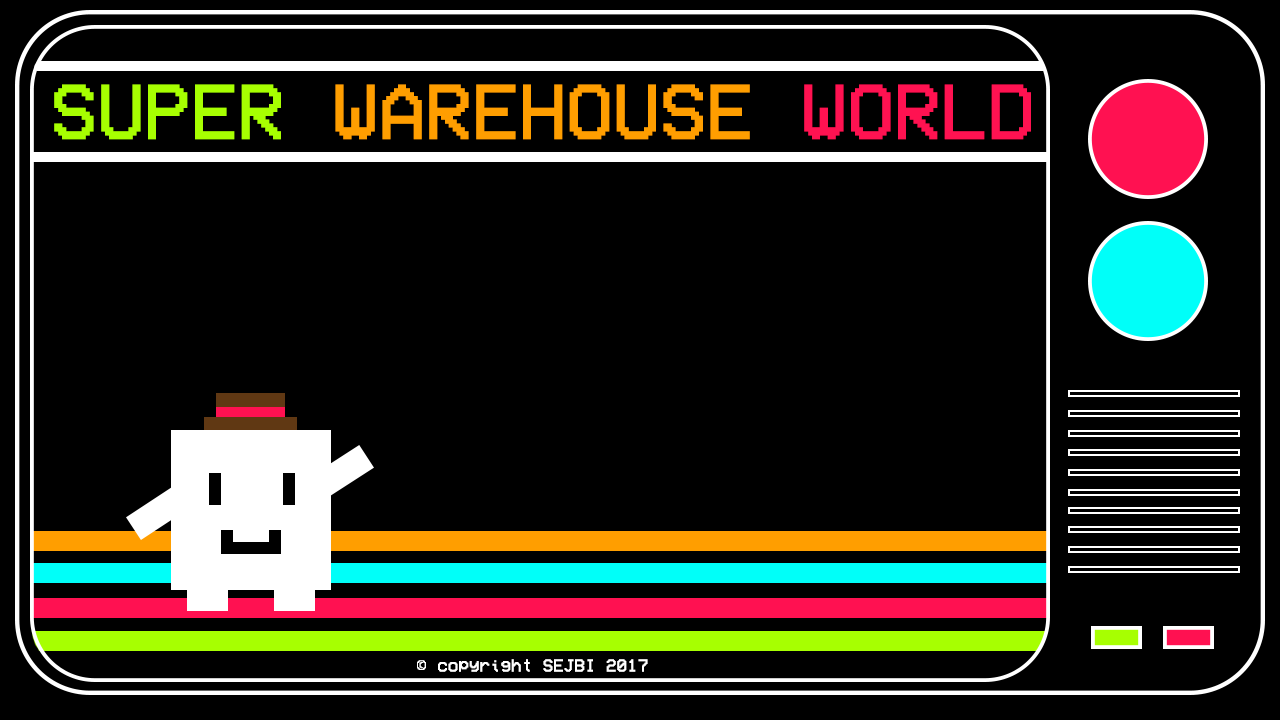
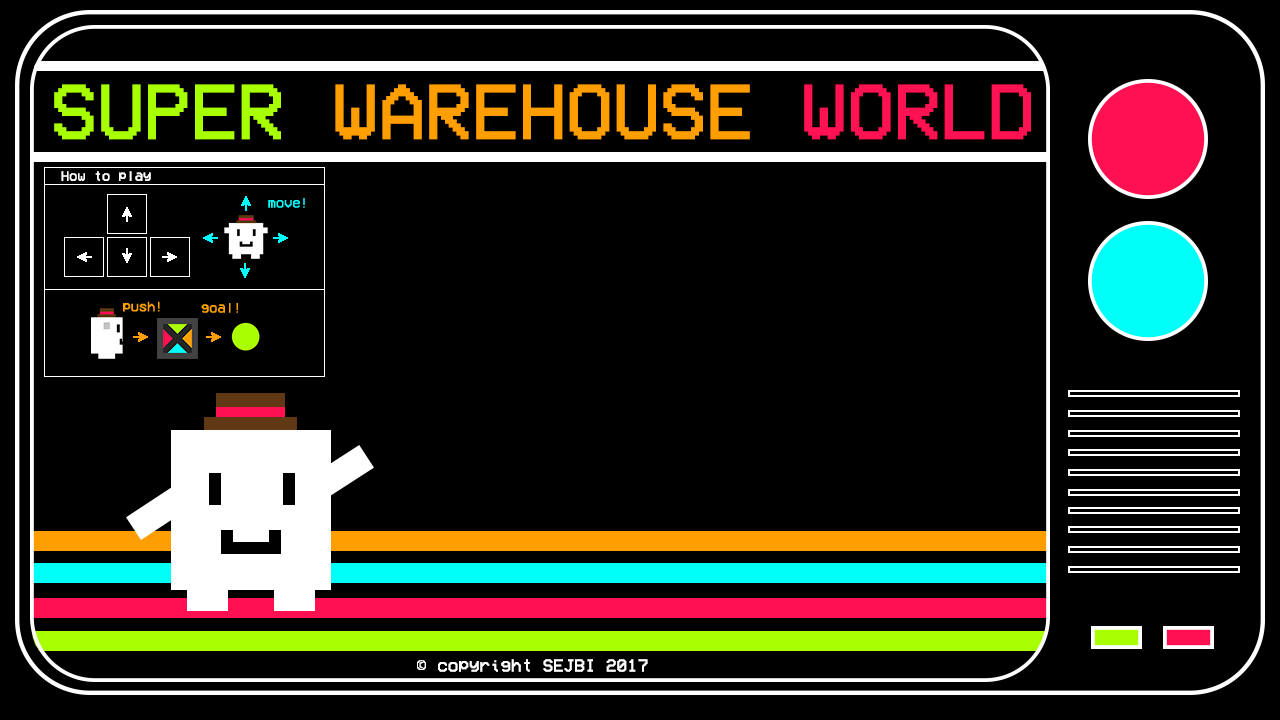
Level javadoc + new menu

Changed region(s): [[0.0625, 0.3972, 0.2188, 0.5194], [0.0625, 0.275, 0.25, 0.3667], [0.0312, 0.2139, 0.125, 0.275]]

diff --git a/src/Level.java b/src/Level.java
@@ -42,28 +42,47 @@ import javax.swing.border.EmptyBorder;
 
 public class Level extends JPanel implements ActionListener {
 	
+	/**
+	 * Difficulty constants
+	 */
 	public static final int EASY = 0;
 	public static final int MEDIUM = 1;
 	public static final int HARD = 2;
 	
+	/**
+	 * Boxes for every difficulty
+	 */
 	private static final Integer diffLevels[][] = { {1}, {2, 3}, {4, 5}};
 	
+	/**
+	 * Level tile-map and entities
+	 */
 	private Tile levelMap[][];
 	private ArrayList<Box> boxList;
+	private Player player;
 	private Stack<ArrayList<Entity>> prevStates;
 	
+	/**
+	 * Generation and rendering values
+	 */
 	private int width; // Width of the level
 	private int height; // Height of the level
 	private int tileSize;
 	private int difficulty;
+
+	/**
+	 * Pause panel elements
+	 */
+	private JPanel pausePanel;
+	private boolean isPaused;
 	
-	private Image tileImgs[];
-	private Player player;
-	private int moves = 0;
-	private Timer animationTimer;
+	/**
+	 * UI panel elements
+	 */
 	private JPanel uiPanel;
 	private JLabel movesLabel;
 	private JLabel timerLabel;
+	private JPanel uiButtonsPanel;
 	private HoverButton Pause;
 	private HoverButton Undo;
 	private Image pauseButton;
@@ -71,55 +90,71 @@ public class Level extends JPanel implements ActionListener {
 	private Image pauseHover;
 	private Image undoHover;
 	
-	private JPanel pausePanel;
-	private JPanel uiButtonsPanel;
-
+	/**
+	 * Score variables
+	 */
 	private long time;
+	private int moves;
 
-	private boolean isPaused;
+	/**
+	 * Tile images and frame timer for updating and animation
+	 */
+	private Image tileImgs[];
+	private Timer frameTimer;
 	
-	//Premade level members
+	/**
+	 * Premade level members
+	 */
 	private File levelFile = null;
 	private String levelMapString = "";
 	private int highScore = 0;
 	private long bestTime = 0;
 	private boolean newHighScore = false;
-	//for key input
+	
+	/**
+	 * Key binding constants
+	 */
     private static final String MOVE_UP = "move up";
     private static final String MOVE_DOWN = "move down";
     private static final String MOVE_LEFT = "move left";
     private static final String MOVE_RIGHT = "move right";
-    
     private static final String MENU = "return menu";
     private static final String UNDO = "undo";
     
+    /**
+     * Host JFrame
+     */
     private JFrame frame;
 	
 	/**
 	 * Creates a new level.
+	 * @param frame Host JFrame
 	 * @param screenWidth Screen width in pixels.
 	 * @param screenHeight Screen height in pixels.
 	 * @param tileSize Width/Height of a tile in pixels.
+	 * @param difficulty Difficulty of the level to be generated.
 	 */
     Level(JFrame frame, int screenWidth, int screenHeight, int tileSize, int difficulty) {
-		// 1 pixel padding so I don't need to add edge cases to generation.
 		this.frame = frame;
 
+		// 1 pixel padding so I don't need to add edge cases to generation.
 		this.width = screenWidth/tileSize + 2;
 		this.height = screenHeight/tileSize + 2;
 		this.tileSize = tileSize;
 		this.difficulty = difficulty;
 		prevStates = new Stack<ArrayList<Entity>>();
 
-		animationTimer = new Timer(GameMaster.FRAME_DELTA, this);
+		frameTimer = new Timer(GameMaster.FRAME_DELTA, this);
 
-		Random r = new Random();
 		// gets a random number of goals for the assigned difficulty
+		Random r = new Random();
 		int numGoals = diffLevels[difficulty][r.nextInt(diffLevels[difficulty].length)];
 		
 		time = 0;
-		isPaused = false;
+		moves = 0;
+		
 		pausePanel = new PausePanel(frame);
+		isPaused = false;
 		
 		setDefaultTiles();
 		
@@ -142,10 +177,16 @@ public class Level extends JPanel implements ActionListener {
 		
 		setActions();
 		setupUI();
-		animationTimer.start();
+		frameTimer.start();
 		pushCurrentState();
 	}
 
+    /**
+     * Creates a level from a file.
+     * @param frame Host JFrame
+     * @param levelFile File containing level data
+     * @param tileSize Width/Height of a tile in pixels
+     */
 	Level(JFrame frame, File levelFile, int tileSize) {
 		this.frame = frame;
 		this.tileSize = tileSize;
@@ -153,7 +194,7 @@ public class Level extends JPanel implements ActionListener {
 		boxList = new ArrayList<Box>();
 		prevStates = new Stack<ArrayList<Entity>>();
 		
-		animationTimer = new Timer(GameMaster.FRAME_DELTA, this);
+		frameTimer = new Timer(GameMaster.FRAME_DELTA, this);
 		time = 0;
 		isPaused = false;
 		pausePanel = new PausePanel(frame);
@@ -204,10 +245,13 @@ public class Level extends JPanel implements ActionListener {
 		// prepares the level for input
 		setActions();
 		setupUI();
-		animationTimer.start();
+		frameTimer.start();
 		pushCurrentState();
 	}
 	
+	/**
+	 * Loads and parses a level from a file.
+	 */
 	private void loadLevelFile() {
 		try {
 			// scans for the level string representation
@@ -242,12 +286,8 @@ public class Level extends JPanel implements ActionListener {
 		}	
 	}
 	
-	/*
-	 * Sets KeyActions 
-	 * 
-	 * This function uses keybinding to set key-actions for the game
-	 * 
-	 * 
+	/**
+	 * Sets up actions and binds keys to their appropriate actions.
 	 */
 	private void setActions() {
 		getInputMap(JComponent.WHEN_IN_FOCUSED_WINDOW).put(KeyStroke.getKeyStroke("UP"), MOVE_UP);
@@ -314,11 +354,8 @@ public class Level extends JPanel implements ActionListener {
 		});
 	}
 	
-	/*
-	 * Sets Tiles
-	 * 
-	 * This function sets the images for each specific tile
-	 * 
+	/**
+	 * Sets the default tile images for rendering.
 	 */
 	private void setDefaultTiles() {
 		this.tileImgs = new Image[8];
@@ -338,7 +375,9 @@ public class Level extends JPanel implements ActionListener {
 		}
 	}
 	
-	/* Sets up the user interactive interface */
+	/**
+	 * Sets up the UI panel elements.
+	 */
 	private void setupUI() {
 		setOpaque(false);
 		setLayout(null);
@@ -367,7 +406,16 @@ public class Level extends JPanel implements ActionListener {
 		uiPanel.setBounds(new Rectangle(new Point(0, (int) (GameMaster.HEIGHT - uiPanel.getPreferredSize().getHeight())), uiPanel.getPreferredSize()));
 		uiPanel.setBackground(new Color(58, 58, 58));
 		
-		getImages();
+		// Load in button assets
+		try {
+			pauseButton = ImageIO.read(getClass().getResourceAsStream("pause.png"));
+			undoButton = ImageIO.read(getClass().getResourceAsStream("undo.png"));
+			pauseHover = ImageIO.read(getClass().getResourceAsStream("pause2.png"));
+			undoHover = ImageIO.read(getClass().getResourceAsStream("undo2.png"));
+		}
+		catch(Exception e) {
+			e.printStackTrace();
+		}	
 		
 		// sets the pause button
 		Pause = new HoverButton();
@@ -434,31 +482,17 @@ public class Level extends JPanel implements ActionListener {
 		add(uiPanel);
 	}
 	
-	/* Gets the button images for pause and undo
-	 * Gets the cursor images when hovering over these buttons */
-	private void getImages(){
-		try {
-			pauseButton = ImageIO.read(getClass().getResourceAsStream("pause.png"));
-			undoButton = ImageIO.read(getClass().getResourceAsStream("undo.png"));
-			pauseHover = ImageIO.read(getClass().getResourceAsStream("pause2.png"));
-			undoHover = ImageIO.read(getClass().getResourceAsStream("undo2.png"));
-		}
-		catch(Exception e) {
-			e.printStackTrace();
-		}	
-		
-	}
-	
-	/* Controls the appearance of the pause panel
-	 * Stops the timer of the current level if paused */
+	/**
+	 * Switches the paused state of the level.
+	 */
 	public void togglePaused() {
 		if (isPaused) {
 			isPaused = false;
-			animationTimer.start();
+			frameTimer.start();
 			remove(pausePanel);
 		} else {
 			isPaused = true;
-			animationTimer.stop();
+			frameTimer.stop();
 			add(pausePanel);
 		}
 		
@@ -466,7 +500,9 @@ public class Level extends JPanel implements ActionListener {
 		repaint();
 	}
 	
-	/* Makes the player based off playerSpaces */
+	/**
+	 * Makes the player based off playerSpaces.
+	 */
 	private void makePlayer(List<List<Integer>> playerSpaces) {
 		try {
 			Random r = new Random();
@@ -479,7 +515,9 @@ public class Level extends JPanel implements ActionListener {
 		}
 	}
 	
-	/* Makes the boxList by placing the boxes on the goals */
+	/**
+	 * Makes the boxList by placing the boxes on the goals.
+	 */
 	private void makeBoxList(int numGoals) {		
 		this.boxList = new ArrayList<Box>();
 		
@@ -497,11 +535,9 @@ public class Level extends JPanel implements ActionListener {
 		}
 	}
 	
-	/*
-	 * Checks if player has won
-	 * 
-	 * @return boolean
-	 * 
+	/**
+	 * Returns whether a level has been completed.
+	 * @return Level completion
 	 */
 	private boolean isCompleted() {
 		for (Box b : boxList)
@@ -511,7 +547,9 @@ public class Level extends JPanel implements ActionListener {
 		return true;
 	} 
 	
-	/* Undo the players previous action */
+	/**
+	 * Undo the players previous action.
+	 */
 	private void undo() {
 		//Since we can't store the state when the player starts moving
 		//as we have no way of knowing when that is at the moment, we 
@@ -535,7 +573,9 @@ public class Level extends JPanel implements ActionListener {
 		repaint();
 	}
 	
-	/* Pushes the current state of the level */
+	/**
+	 * Pushes the current state of the level
+	 */
 	private void pushCurrentState() {
 		// saves state
 		ArrayList<Entity> newState = new ArrayList<Entity>();
@@ -556,7 +596,9 @@ public class Level extends JPanel implements ActionListener {
 		prevStates.push(newState);
 	}
 	
-	/* Saves the players high score for that level */
+	/**
+	 * Saves the players high score for that level.
+	 */
 	private void saveHighScore() {
 		// prints out the relevant message to high score
 		if ((moves > highScore && highScore != 0)&&(time >= bestTime && bestTime != 0)) {
@@ -647,7 +689,9 @@ public class Level extends JPanel implements ActionListener {
 		return s.toString();
 	}
 	
-	/* Paints the level for the user */
+	/**
+	 * Renders the level to the screen.
+	 */
 	public void paintComponent(Graphics g) {
 		Graphics2D bbg = (Graphics2D) g;
 		int left = (int) ((double) GameMaster.WIDTH/2 - (double) (width * tileSize)/2);
@@ -699,7 +743,7 @@ public class Level extends JPanel implements ActionListener {
 	}
 
 	@Override
-	/* Checks if the action was performed */
+	/* Handles actions for a timer trigger */
 	public void actionPerformed(ActionEvent e) {
 		boolean stillAnimating = false;
 		
@@ -731,7 +775,7 @@ public class Level extends JPanel implements ActionListener {
 			repaint();
 		else if (isCompleted()) {
 			// stops the animation's timer
-			animationTimer.stop();
+			frameTimer.stop();
 			if (levelFile != null) {
 				// saves if high score
 				saveHighScore();
